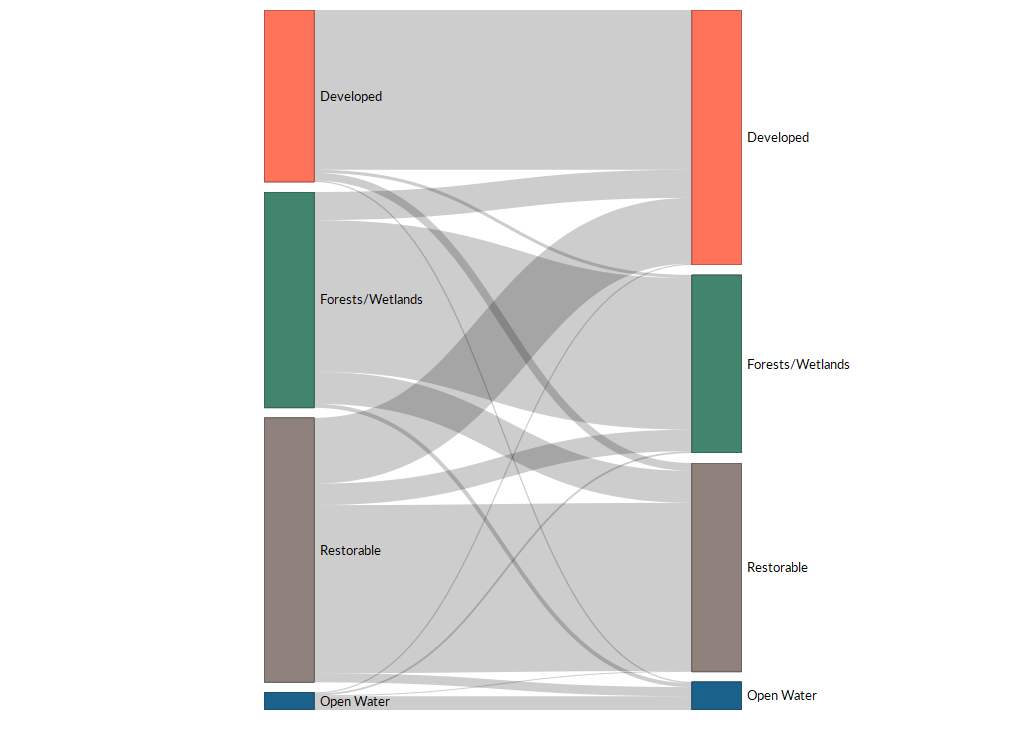
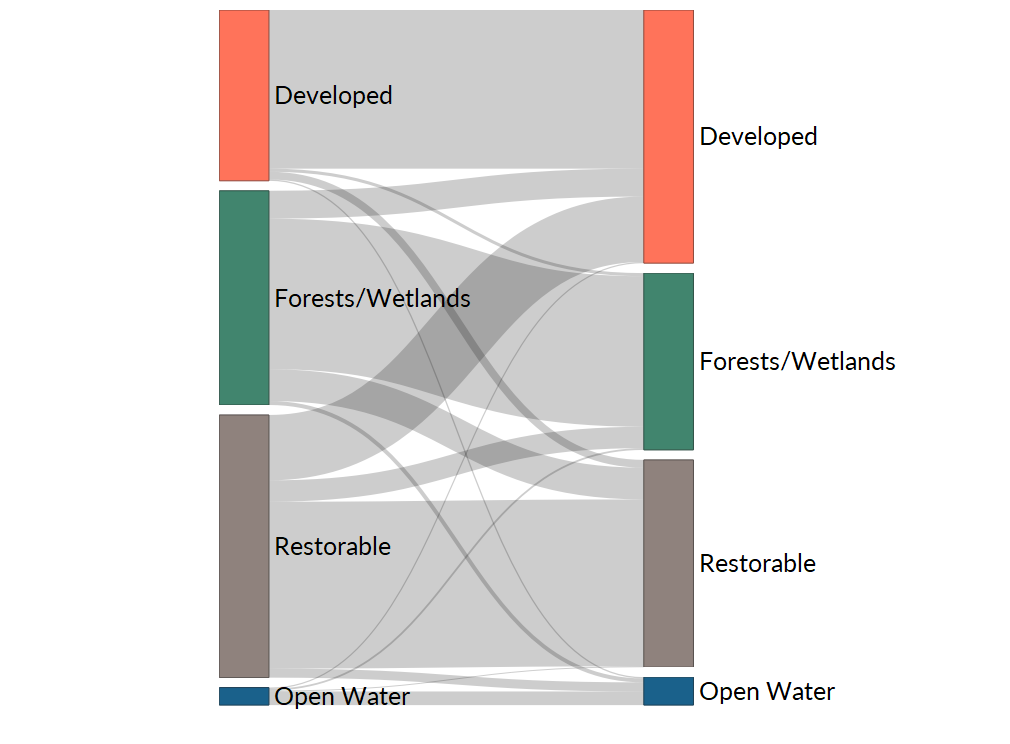
modify some figs

Changed region(s): [[0.2149, 0.0, 0.8901, 0.9583]]

diff --git a/figures/landusechange.html b/figures/landusechange.html
@@ -1575,9 +1575,9 @@ return function(){for(var n=0,e=0;e<t;++e)n+=Math.random();return n}},um=functio
 </head>
 <body style="background-color: white;">
 <div id="htmlwidget_container">
-  <div id="htmlwidget-1ff34630ea08ad699912" style="width:1000px;height:700px;" class="sankeyNetwork html-widget"></div>
+  <div id="htmlwidget-815a14e84290b05bcf8a" style="width:1000px;height:700px;" class="sankeyNetwork html-widget"></div>
 </div>
-<script type="application/json" data-for="htmlwidget-1ff34630ea08ad699912">{"x":{"links":{"source":[0,1,2,3,0,1,2,3,0,1,2,3,0,1,2,3],"target":[4,4,4,4,5,5,5,5,6,6,6,6,7,7,7,7],"value":[344859.7593077314,60631.1643978609,2617.236104570848,142216.5327962553,6742.80446713223,327310.0488151337,3921.807738952646,46431.86476016511,2829.429631334021,8645.948617532662,29719.72943265923,19680.01932327287,16895.92879688486,69118.37622327321,1907.474016838087,362713.660110537]},"nodes":{"name":["Developed ","Forests/Wetlands ","Open Water ","Restorable ","Developed","Forests/Wetlands","Open Water","Restorable"],"group":["Developed ","Forests/Wetlands ","Open Water ","Restorable ","Developed","Forests/Wetlands","Open Water","Restorable"]},"options":{"NodeID":"name","NodeGroup":"name","LinkGroup":null,"colourScale":"d3.scaleOrdinal([\" #FF6347\", \"#2B775D\", \"#004F7E\", \"#82746E \"])","fontSize":13,"fontFamily":"Lato","nodeWidth":50,"nodePadding":10,"units":"acres","margin":{"top":0,"right":95,"bottom":0,"left":0},"iterations":32,"sinksRight":false}},"evals":[],"jsHooks":{"render":[{"code":"\n    function(out,x){\n    // select all our node text\n    d3.select(out)\n    .selectAll(\".node text\")\n    .filter(function(d) { return d.name.endsWith(\" \"); })\n    .attr(\"x\", x.options.nodeWidth - 55)\n    .attr(\"text-anchor\", \"end\");\n    }\n    ","data":null}]}}</script>
-<script type="application/htmlwidget-sizing" data-for="htmlwidget-1ff34630ea08ad699912">{"viewer":{"width":1000,"height":700,"padding":10,"fill":false},"browser":{"width":1000,"height":700,"padding":10,"fill":false}}</script>
+<script type="application/json" data-for="htmlwidget-815a14e84290b05bcf8a">{"x":{"links":{"source":[0,1,2,3,0,1,2,3,0,1,2,3,0,1,2,3],"target":[4,4,4,4,5,5,5,5,6,6,6,6,7,7,7,7],"value":[344859.7593077314,60631.1643978609,2617.236104570848,142216.5327962553,6742.80446713223,327310.0488151337,3921.807738952646,46431.86476016511,2829.429631334021,8645.948617532662,29719.72943265923,19680.01932327287,16895.92879688486,69118.37622327321,1907.474016838087,362713.660110537]},"nodes":{"name":["Developed ","Forests/Wetlands ","Open Water ","Restorable ","Developed","Forests/Wetlands","Open Water","Restorable"],"group":["Developed ","Forests/Wetlands ","Open Water ","Restorable ","Developed","Forests/Wetlands","Open Water","Restorable"]},"options":{"NodeID":"name","NodeGroup":"name","LinkGroup":null,"colourScale":"d3.scaleOrdinal([\" #FF6347\", \"#2B775D\", \"#004F7E\", \"#82746E \"])","fontSize":25,"fontFamily":"Lato","nodeWidth":50,"nodePadding":10,"units":"acres","margin":{"top":0,"right":95,"bottom":0,"left":0},"iterations":32,"sinksRight":false}},"evals":[],"jsHooks":{"render":[{"code":"\n    function(out,x){\n    // select all our node text\n    d3.select(out)\n    .selectAll(\".node text\")\n    .filter(function(d) { return d.name.endsWith(\" \"); })\n    .attr(\"x\", x.options.nodeWidth - 55)\n    .attr(\"text-anchor\", \"end\");\n    }\n    ","data":null}]}}</script>
+<script type="application/htmlwidget-sizing" data-for="htmlwidget-815a14e84290b05bcf8a">{"viewer":{"width":1000,"height":700,"padding":10,"fill":false},"browser":{"width":1000,"height":700,"padding":10,"fill":false}}</script>
 </body>
 </html>
